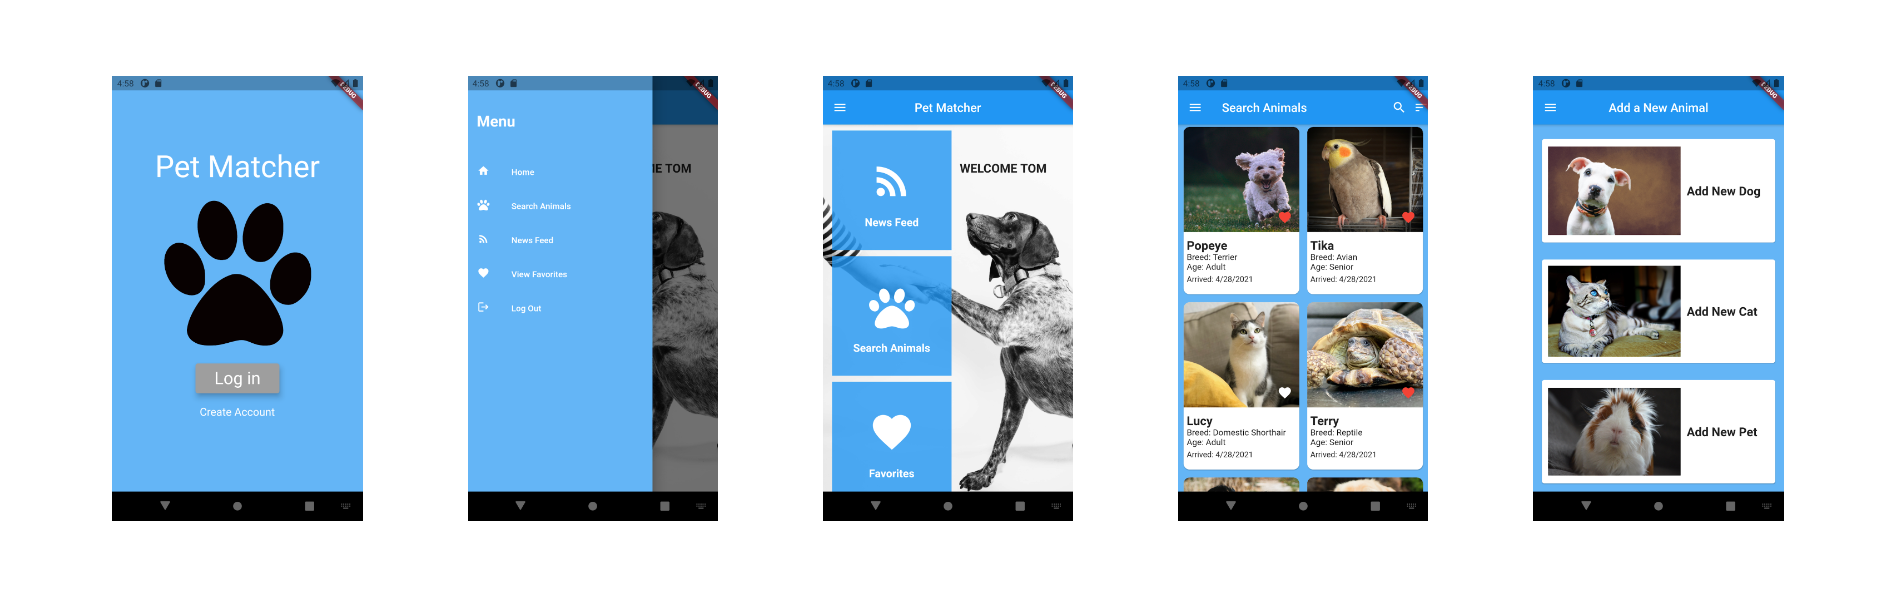
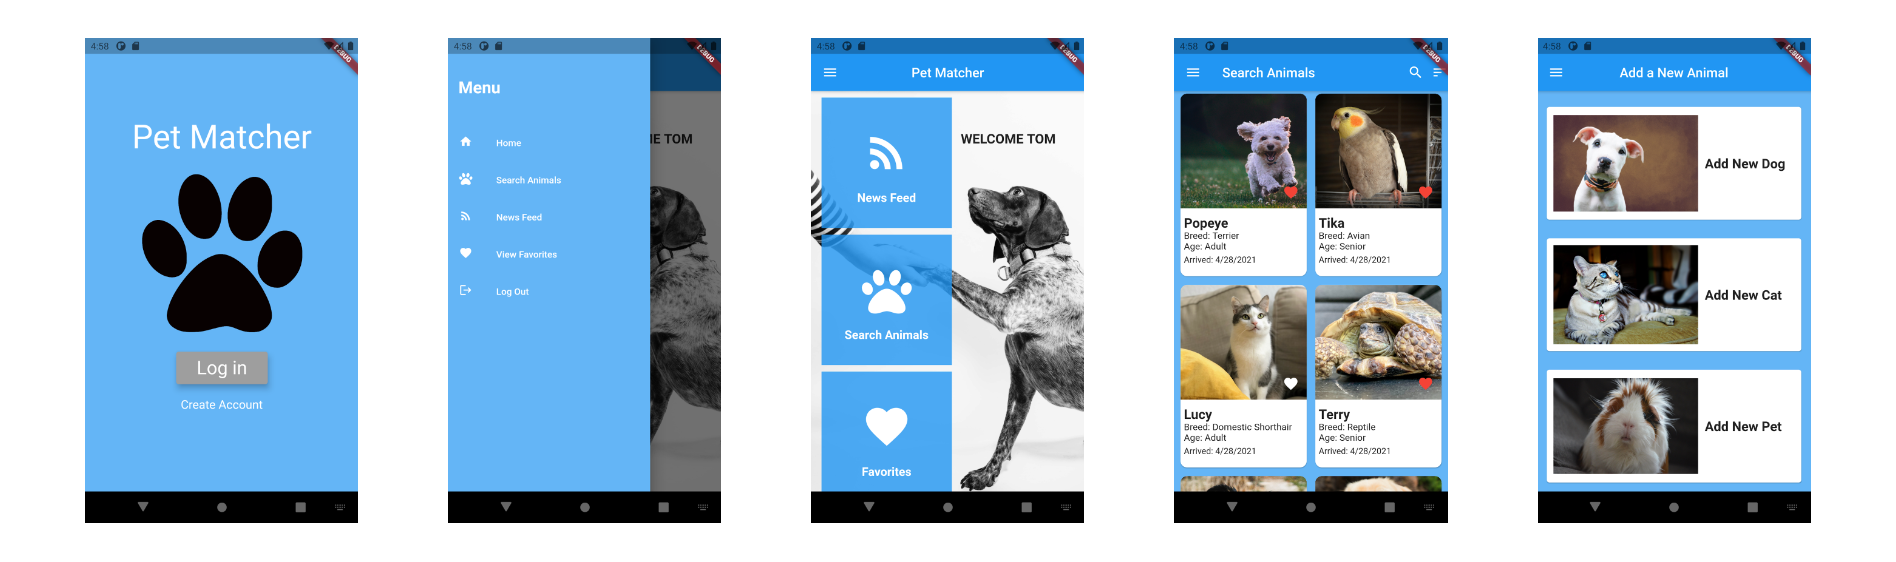
adjust title image (#73)

diff --git a/docs/html/title_image.html b/docs/html/title_image.html
@@ -6,7 +6,7 @@
 
 <body>
 
-<div id="capture-container" style="display: flex; justify-content: center; gap: 70px; padding: 4% 6%;">
+<div id="capture-container" style="display: flex; justify-content: center; gap: 60px; padding: 2% 2%;">
     <img src="../assets/intro_a.png" alt="Image 1" style="width: 15%; height: auto;">
     <img src="../assets/intro_d.png" alt="Image 1" style="width: 15%; height: auto;">
     <img src="../assets/intro_b.png" alt="Image 2" style="width: 15%; height: auto;">
